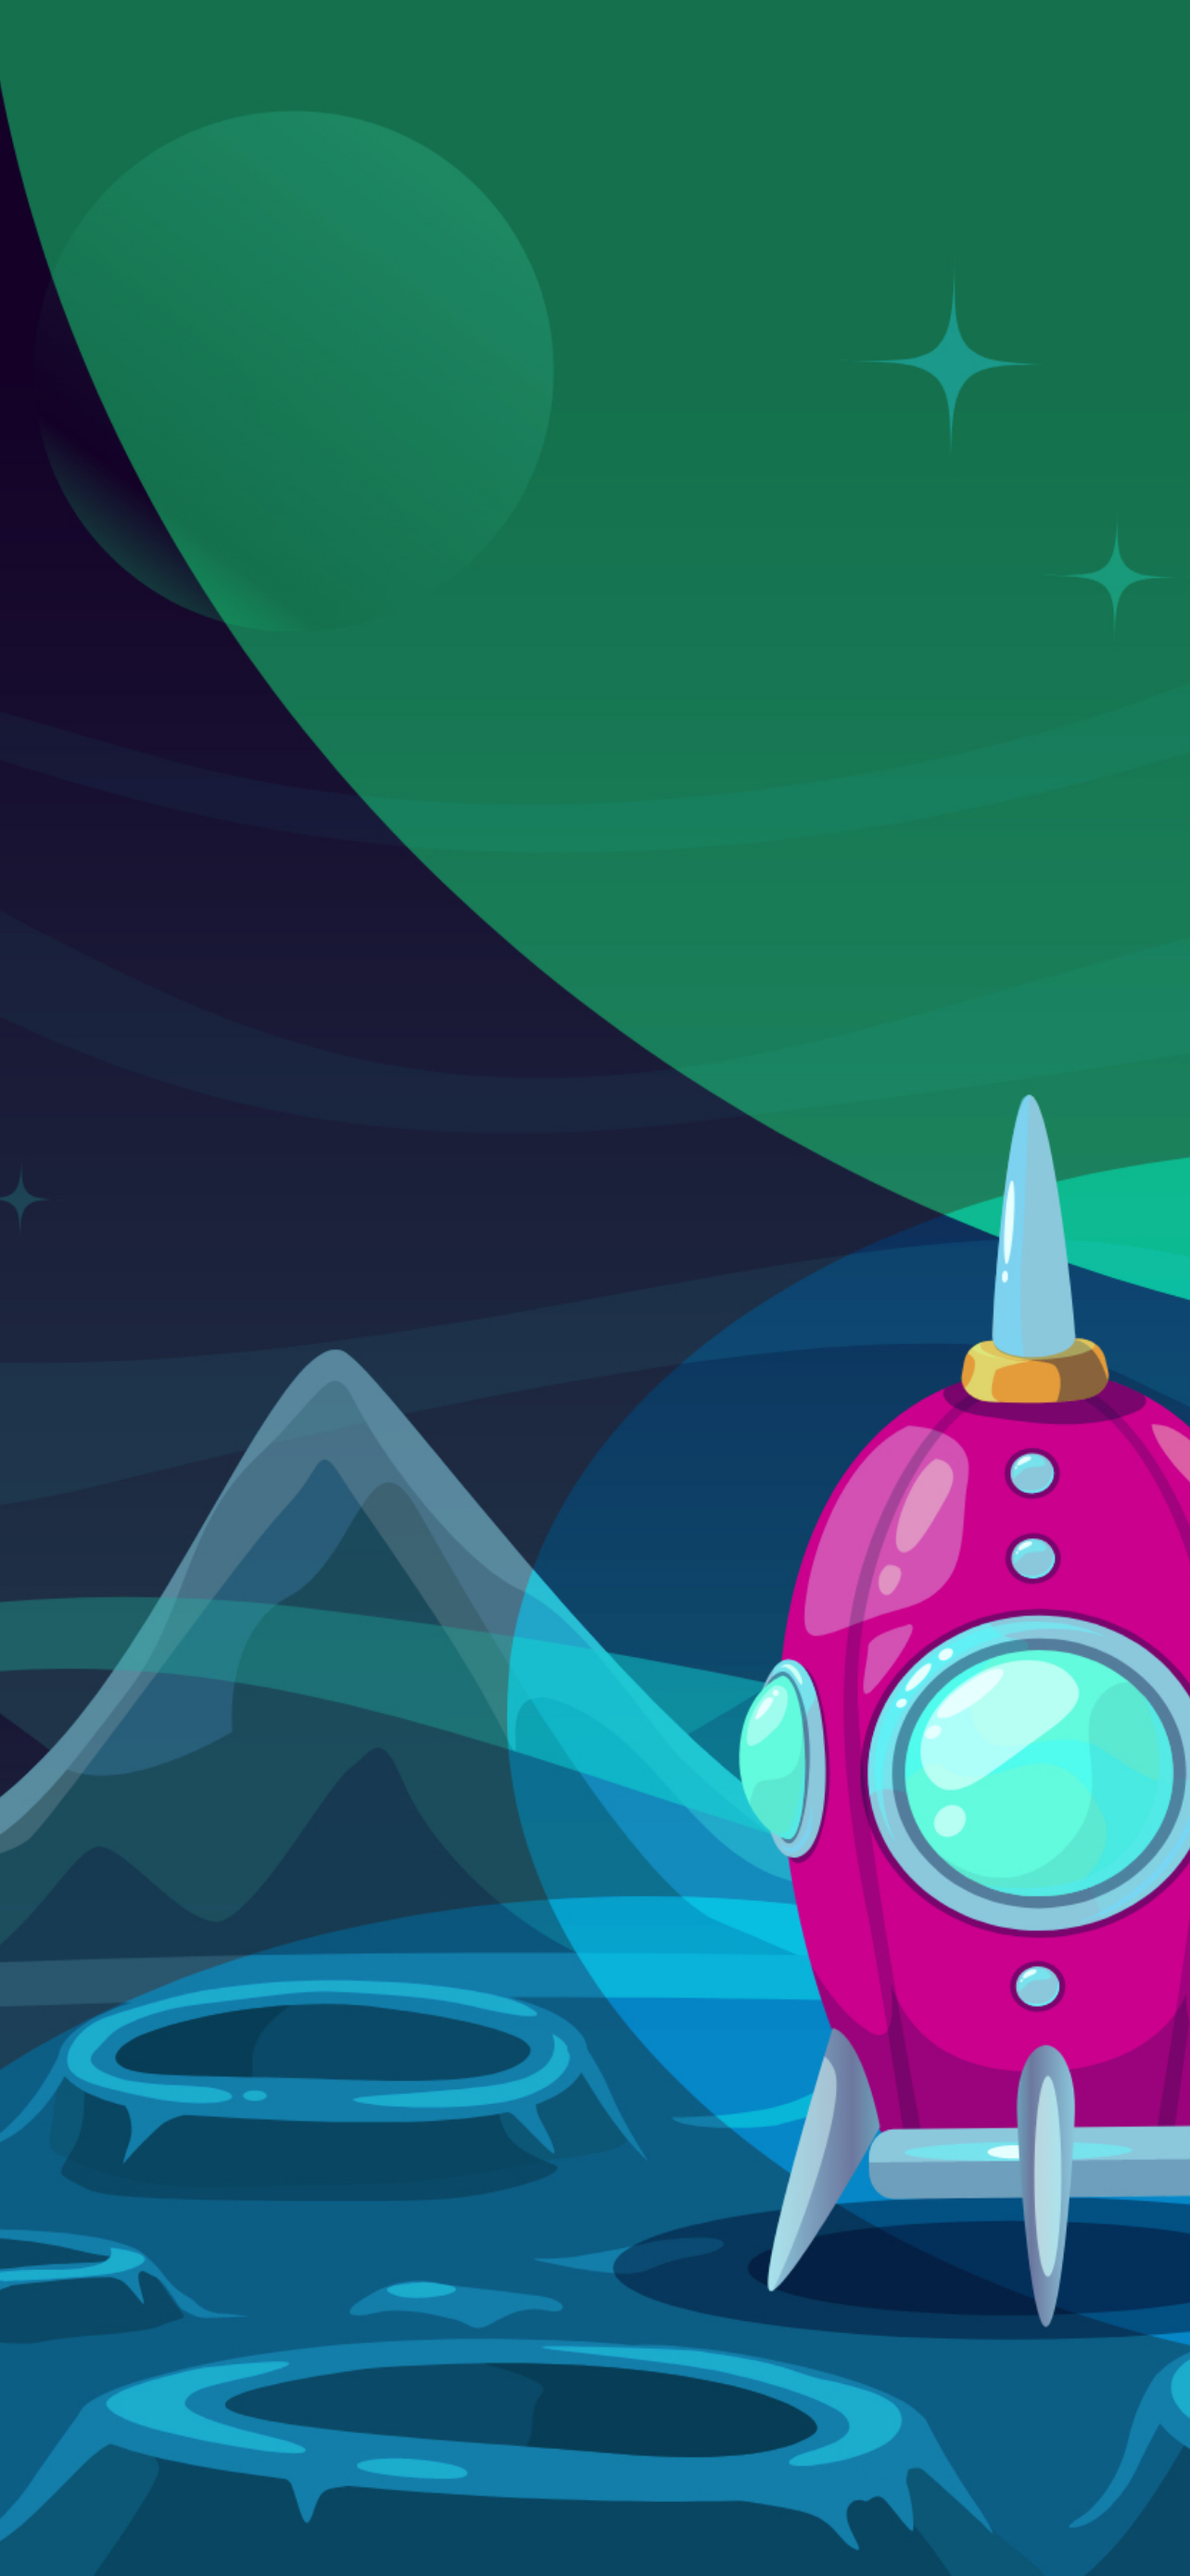
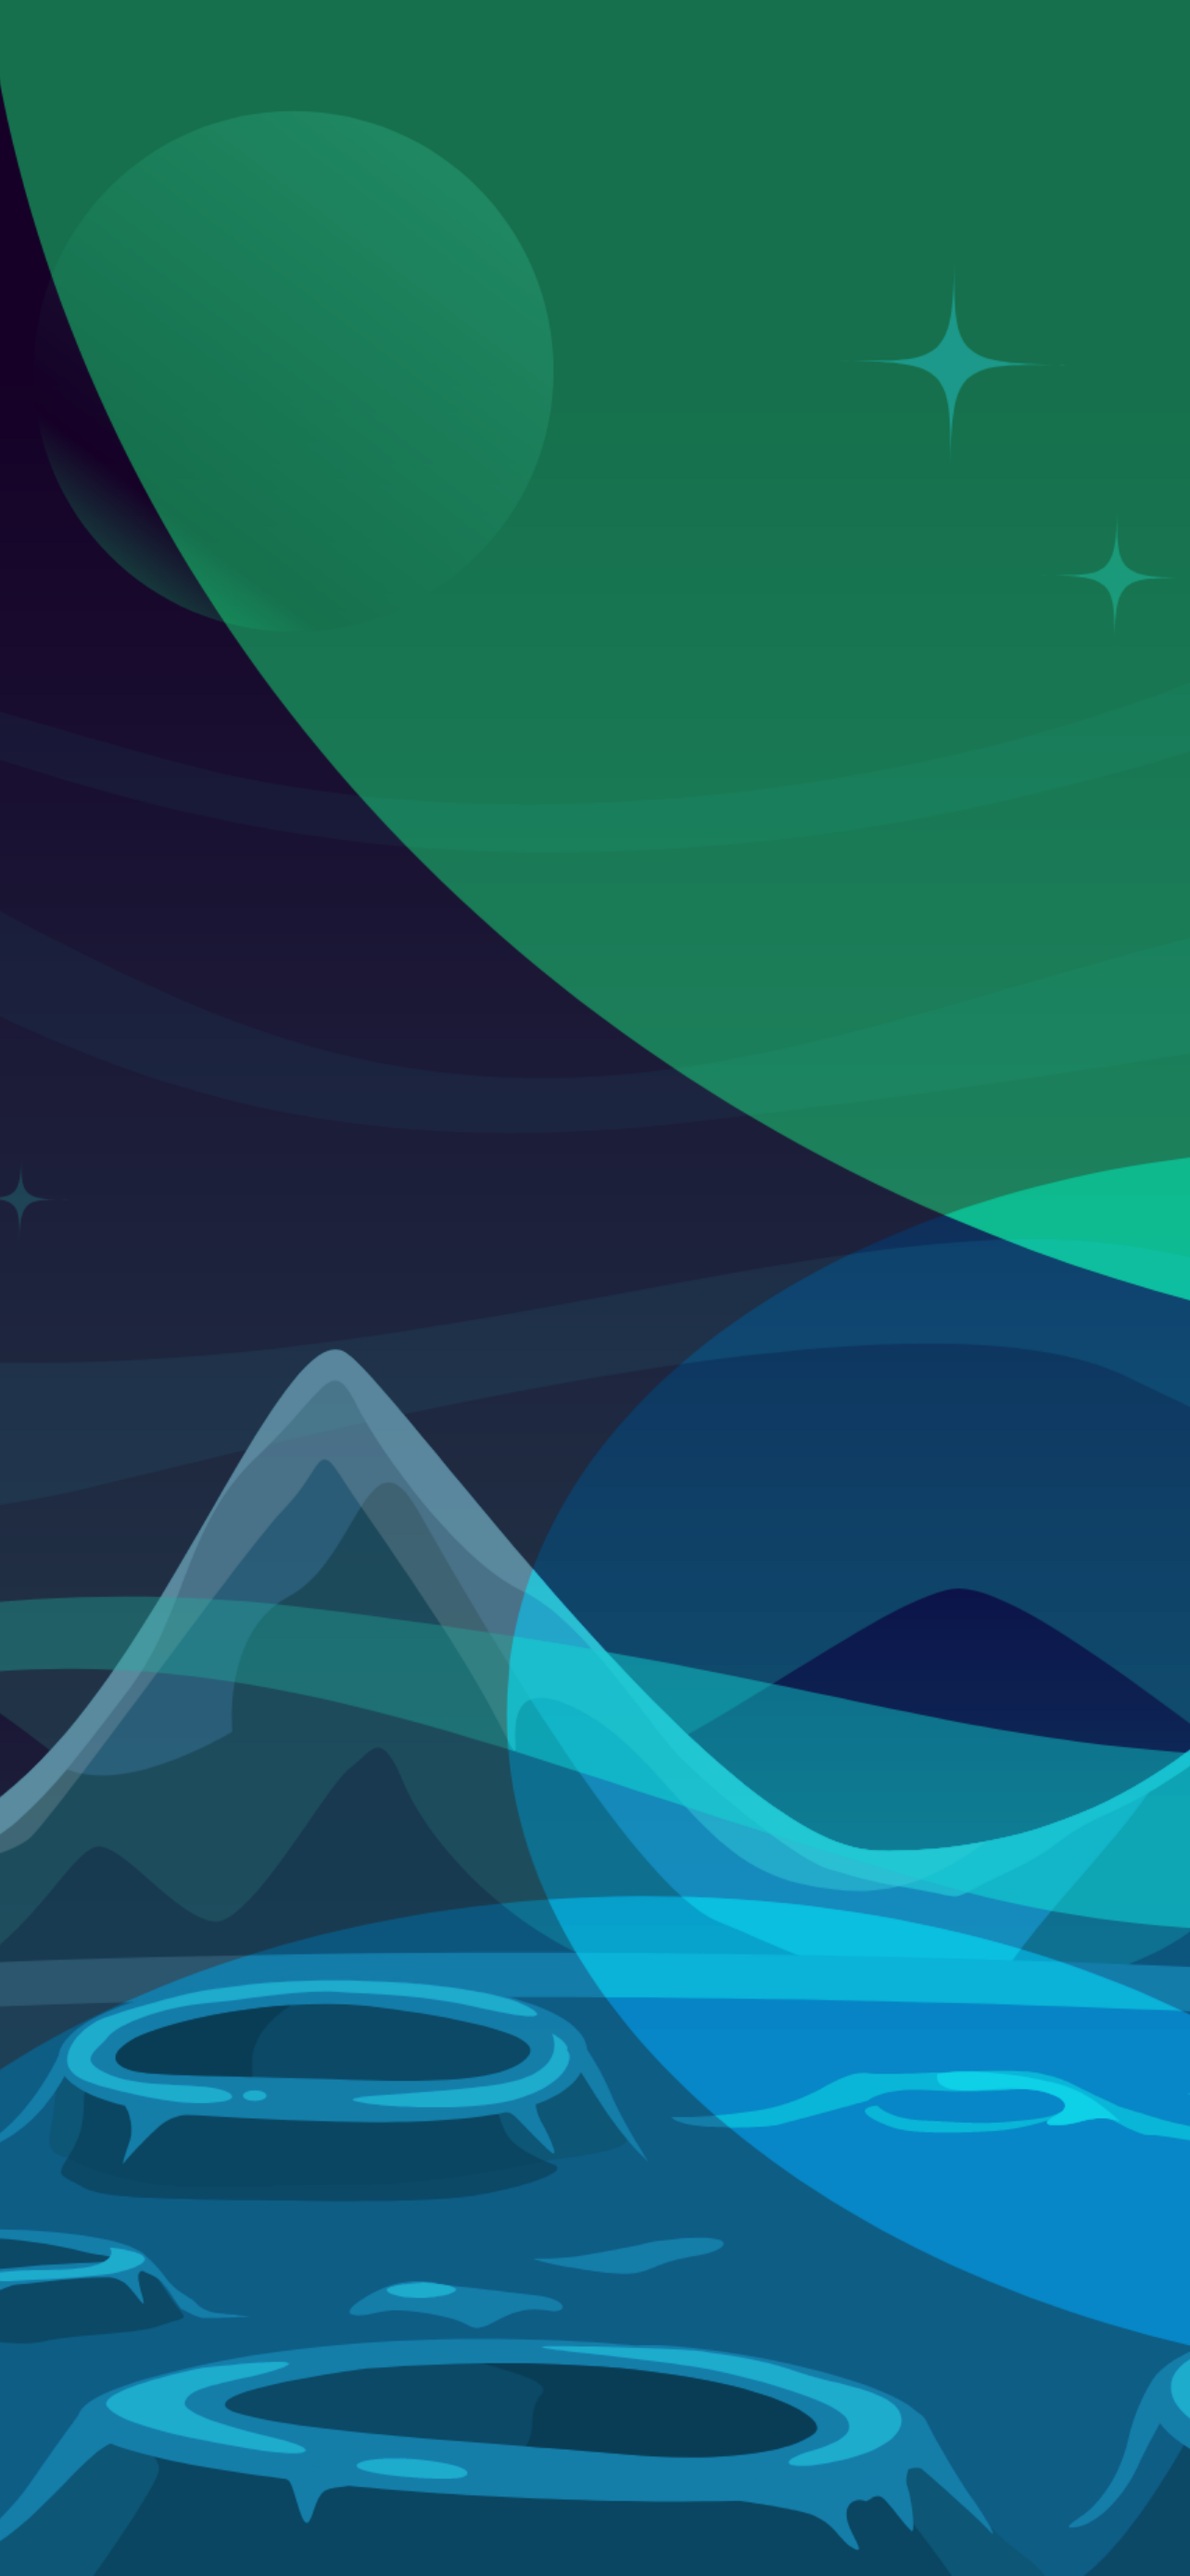
Home view animations

Changed region(s): [[0.4984, 0.4024, 1.0, 0.9287]]

diff --git a/lib/presentation/widgets/home_view_background.dart b/lib/presentation/widgets/home_view_background.dart
@@ -10,61 +10,106 @@ class HomeViewBackground extends StatefulWidget {
 
 class _HomeViewBackgroundState extends State<HomeViewBackground>
     with TickerProviderStateMixin {
-  late AnimationController controller;
+  late AnimationController _controller;
+  late Animation<double> _animationRocket;
+  late Animation<double> _animationShadow;
+  late Animation<double> _animationStar;
   @override
   void initState() {
     super.initState();
-    controller = AnimationController(
+    _controller = AnimationController(
       vsync: this,
-      duration: const Duration(seconds: 10),
-      upperBound: 50,
+      duration: const Duration(milliseconds: 4000),
     );
 
-    // controller
-    //   ..addListener(() {
-    //     setState(() {});
-    //   })
-    //   ..repeat(reverse: true);
+    _animationStar = CurvedAnimation(
+      parent: _controller,
+      curve: const Interval(0.35, 0.90, curve: Curves.ease),
+    );
+
+    _animationRocket = Tween<double>(
+      begin: 0,
+      end: 50,
+    ).animate(
+      CurvedAnimation(
+        parent: _controller,
+        curve: const Interval(0, 1, curve: Curves.ease),
+      ),
+    );
+
+    _animationShadow = Tween<double>(
+      begin: 1,
+      end: 0.5,
+    ).animate(
+      CurvedAnimation(
+        parent: _controller,
+        curve: const Interval(0, 1, curve: Curves.ease),
+      ),
+    );
+
+    _controller
+      ..forward()
+      ..repeat(reverse: true);
   }
 
   @override
   void dispose() {
-    controller.dispose();
+    _controller.dispose();
     super.dispose();
   }
 
   @override
   Widget build(BuildContext context) {
     final size = MediaQuery.of(context).size;
-    return Stack(
-      children: [
-        const SizedBox(
-          width: double.infinity,
-          child: Image(
-            image:
-                AssetImage('assets/img/backgrounds/home_view_background.png'),
-            fit: BoxFit.cover,
-          ),
-        ),
-        Positioned(
-          bottom: 85,
-          right: -48,
-          height: size.height * 0.475,
-          child: const Image(
-            image: AssetImage('assets/img/shadow.png'),
-            fit: BoxFit.fitHeight,
-          ),
-        ),
-        Positioned(
-          bottom: 85 + controller.value,
-          right: -48,
-          height: size.height * 0.475,
-          child: const Image(
-            image: AssetImage('assets/img/rocket.png'),
-            fit: BoxFit.fitHeight,
-          ),
-        )
-      ],
+    return AnimatedBuilder(
+      animation: _controller,
+      builder: (context, child) {
+        return Stack(
+          children: [
+            const SizedBox(
+              width: double.infinity,
+              child: Image(
+                image: AssetImage(
+                    'assets/img/backgrounds/home_view_background.png'),
+                fit: BoxFit.cover,
+              ),
+            ),
+            Positioned(
+              bottom: 80,
+              right: -48,
+              height: size.width * 0.11,
+              child: Transform.scale(
+                scale: _animationShadow.value,
+                child: const Image(
+                  image: AssetImage('assets/img/shadow.png'),
+                  fit: BoxFit.fitHeight,
+                ),
+              ),
+            ),
+            Positioned(
+              top: 80,
+              right: 40,
+              height: size.width * 0.2,
+              child: Transform.scale(
+                scale: _animationStar.value,
+                child: const Image(
+                  image: AssetImage('assets/img/star.png'),
+                  fit: BoxFit.fitHeight,
+                ),
+              ),
+            ),
+            Positioned(
+              bottom: 85 + _animationRocket.value,
+              right: -48,
+              height: size.height * 0.475,
+              child: const Image(
+                image: AssetImage('assets/img/rocket.png'),
+                fit: BoxFit.fitHeight,
+              ),
+            )
+          ],
+        );
+      },
     );
   }
 }
